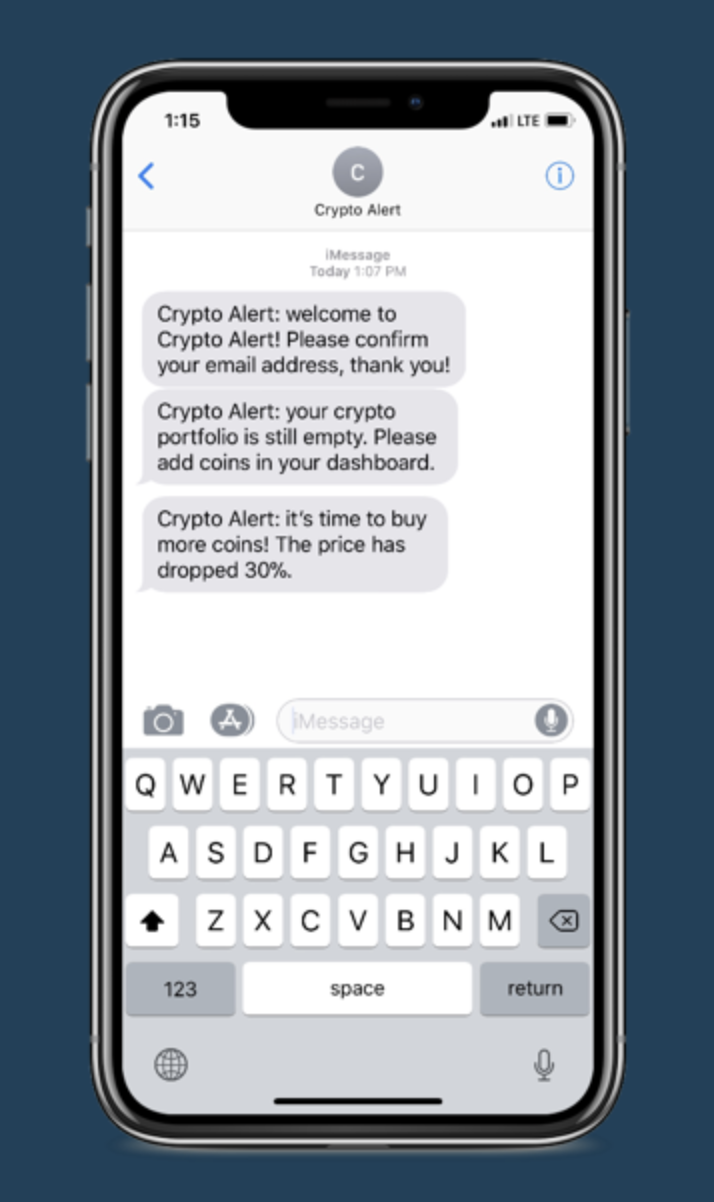
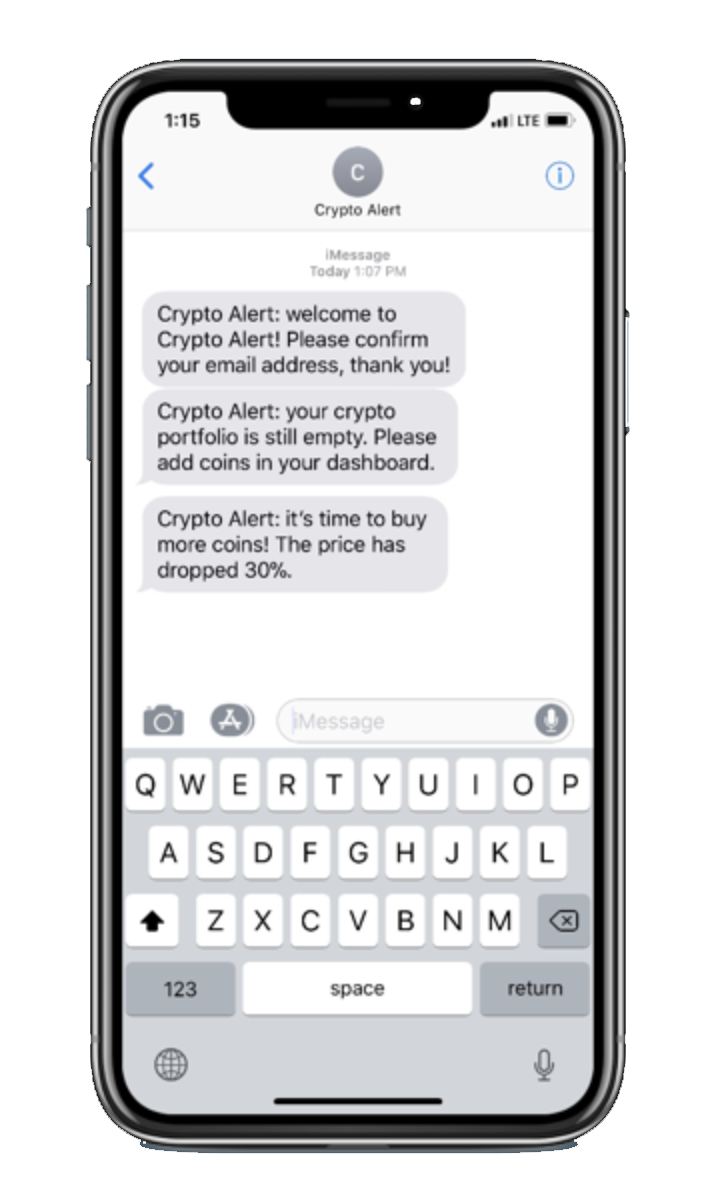
remove BG color of img, worked on landing page

diff --git a/frontend/index.html b/frontend/index.html
@@ -15,7 +15,7 @@
 				<img class="header-img w-100" src="cia_logo_black.png" alt="CIA Logo">
 				<div class="logo-name">
 				CRYPTO INDICATOR ALERT
-			</div>
+				</div>
 			</div>
 			<div class="col-sm p-0">
 				<a href="/signup" role="button" class="btn btn-primary btn-signup col-6">SIGN UP</a>
@@ -55,7 +55,16 @@
 
 		<div>
 			<img id="product" src="./static/img/product.png" alt="">
+
+
+		<div class="productinfo">
+
 		</div>
+		CIA enables crypto currency alert based on technical indicators such as RSI, MACD and so on.
+		</div>
+
+
+
 
 		<script type="text/javascript" src="./static/js/jquery.min.js"></script>
 		<script type="text/javascript" src="./static/js/popper.min.js"></script>

diff --git a/frontend/index.css b/frontend/index.css
@@ -9,3 +9,9 @@
 	top: 550px;
 	font-size: 2em;
 }
+
+.productinfo {
+	text-align: center;
+	color: white;
+	background-color: #8DB1AB;
+}
